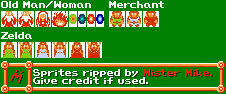
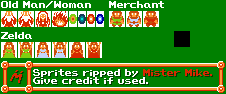
Link pick up sword when intersect bound and attacking

Changed region(s): [[0.7434, 0.3191, 0.8673, 0.5106]]

diff --git a/src/Game/Zelda/Entities/Dynamic/Link.java b/src/Game/Zelda/Entities/Dynamic/Link.java
@@ -32,6 +32,8 @@ public class Link extends BaseMovingEntity {
     boolean linkAttack = false;
     boolean linkHit = false, animacion = false, attacking = false;
     boolean bienveR = false, bienveL = false, bienveU = false, bienveD = false;
+    int powerUp = 2;
+    boolean keyLock = false;
 
 
     public Link(int x, int y, BufferedImage[] sprite, Handler handler) {
@@ -46,6 +48,11 @@ public class Link extends BaseMovingEntity {
 
     @Override
     public void tick() {
+    	
+    	if(powerUp >= 0 && powerUp <= 1) {
+    		handler.getMusicHandler().playEffect("zeldaitem.wav"); // Play Effect when pick up sword
+    	}
+    	
     	// Take 1 health from Link
     	if(handler.getKeyManager().keyJustPressed(KeyEvent.VK_Z) && handler.getZeldaGameState().health > 0) {
     		handler.getZeldaGameState().health--;
@@ -132,20 +139,27 @@ public class Link extends BaseMovingEntity {
              		bienveD = true;
              		animacion = false;
              		attacking = false;
+             		speed = 4;
              	}
              }
+             if(handler.getZeldaGameState().gotSword && handler.getZeldaGameState().swordTimer >= 0 && handler.getZeldaGameState().swordTimer <= 119) {
+                 sprite = Images.oldMan[4];  // Link pick up sword
+                 powerUp--; // timer for music to sound 1 time
+                 keyLock = true;  //Locking keys
+             }else{
+            	 keyLock = false;
+             }
              
-             if(handler.getKeyManager().keyJustPressed(KeyEvent.VK_ENTER)) {
-             
-             	int hola = 120;
+             if(handler.getKeyManager().keyJustPressed(KeyEvent.VK_ENTER) && handler.getZeldaGameState().gotSword) {
+            	speed = 0; // While attacking Link can't move
+             	int animationSpeed = 120; //Link Attack animation Speed
              	  	
-             	
                       if (direction.equals(UP)) {
                           BufferedImage[] animList = new BufferedImage[3];
                           animList[0] = Images.zeldaLinkAttacks[9];
                           animList[1] = Images.zeldaLinkAttacks[10];
                           animList[2] = Images.zeldaLinkAttacks[11];
-                          animation = new Animation(hola, animList);
+                          animation = new Animation(animationSpeed, animList);
                           direction = UP;
                           sprite = sprites[4];
                           
@@ -156,7 +170,7 @@ public class Link extends BaseMovingEntity {
                           animList[0] = Images.zeldaLinkAttacks[0];
                           animList[1] = Images.zeldaLinkAttacks[1];
                           animList[2] = Images.zeldaLinkAttacks[2];
-                          animation = new Animation(hola, animList);
+                          animation = new Animation(animationSpeed, animList);
                           direction = DOWN;
                           sprite = sprites[0];
                           
@@ -167,7 +181,7 @@ public class Link extends BaseMovingEntity {
                           animList[0] = Images.zeldaLinkAttacks[6];
                           animList[1] = Images.zeldaLinkAttacks[7];
                           animList[2] = Images.zeldaLinkAttacks[8];
-                          animation = new Animation(hola, animList);
+                          animation = new Animation(animationSpeed, animList);
                           direction = Direction.LEFT;
                           sprite = Images.flipHorizontal(sprites[3]);
                           
@@ -178,17 +192,17 @@ public class Link extends BaseMovingEntity {
                           animList[0] = Images.zeldaLinkAttacks[3];
                           animList[1] = Images.zeldaLinkAttacks[4];
                           animList[2] = Images.zeldaLinkAttacks[5];
-                          animation = new Animation(hola, animList);
+                          animation = new Animation(animationSpeed, animList);
                           direction = Direction.RIGHT;
                           sprite = (sprites[3]);
                           
                       }
-                      animacion = true;
-                      attacking = true;
+                      animacion = true; //Changing all booleans
+                      attacking = true; // Making Link attack 
              	 
              }
             
-        	
+        	if(!keyLock) {
             if (handler.getKeyManager().up) {
                 if (direction != UP || bienveU) {
                 	bienveU = false;
@@ -238,8 +252,10 @@ public class Link extends BaseMovingEntity {
                 }
                 animation.tick();
                 move(direction);
+            }
             } else {
                 moving = false;
+                
             }
         }
         if ((handler.getKeyManager().keyJustPressed(KeyEvent.VK_H)) && handler.getZeldaGameState().health < 4) {

diff --git a/src/Game/GameStates/Zelda/ZeldaGameState.java b/src/Game/GameStates/Zelda/ZeldaGameState.java
@@ -27,7 +27,7 @@ public class ZeldaGameState extends State {
     public int health = 4; //Links' health 
     //map is 16 by 7 squares, you start at x=7,y=7 starts counting at 0
     public int mapX,mapY,mapWidth,mapHeight;
-
+    public int swordTimer = 120;
     public ArrayList<ArrayList<ArrayList<SolidStaticEntities>>> objects;
     public ArrayList<ArrayList<ArrayList<BaseMovingEntity>>> enemies;
     public Link link;
@@ -43,7 +43,7 @@ public class ZeldaGameState extends State {
         yOffset = handler.getHeight()/4;
         stageWidth = handler.getWidth()/3 + (handler.getWidth()/15);
         stageHeight = handler.getHeight()/2;
-        worldScale = 2;
+        worldScale = 3;
         mapX = 7;
         mapY = 7;
         mapWidth = 256;
@@ -70,24 +70,24 @@ public class ZeldaGameState extends State {
 
     }
 
-
+    
     
     @Override
     public void tick() {
+    	if(gotSword) {
+    		swordTimer --;
+    	}
     	if(caveTimer == 0) {
     		System.out.println("True");
     	}
-    	
         link.tick();
         if (inCave){
         	caveTimer --;     
-        	ArrayList<SolidStaticEntities> toREmove = new ArrayList<>();
         	for (SolidStaticEntities entity : sword) {
         	if (entity instanceof Sword) {
              	if(entity.bounds.intersects(link.bounds)) {
-        		System.out.println(gotSword);
         		gotSword = true;
-        		toREmove.add(entity);
+        		
              } } }
         	 for (SolidStaticEntities entity : objects.get(mapX).get(mapY)) {
                  entity.tick();
@@ -110,11 +110,14 @@ public class ZeldaGameState extends State {
 
     @Override
     public void render(Graphics g) {
-    	 if (inCave){
+    	 if (inCave){    		 
             for (SolidStaticEntities entity : caveObjects) {
                 entity.render(g);
             } for (Sword entity : sword) {
                 entity.render(g);
+                if(gotSword) {
+        			g.drawImage(Images.oldMan[3], 814, 550, 25, 55, null);
+        		 }
             }
 
             g.setColor(Color.WHITE);
@@ -149,7 +152,10 @@ public class ZeldaGameState extends State {
             for (int j = 0;j < 11;j++) {
             	
             	caveObjects.add(new SolidStaticEntities(7, 4, Images.oldMan[0], handler)); //Add old man
-            	this.sword.add(new Sword(7,6, Images.oldMan[2], handler)); //Add sword }
+            	this.sword.add(new Sword(7,6, Images.oldMan[2], handler)); //Add sword 
+            	if(gotSword) {
+            		this.sword.add(new Sword(7,6, Images.oldMan[3], handler));
+            	}
             	if ((i == 4 && j==4 ) || (i == 10 && j==4 )){ // i and j for fire
             		caveObjects.add(new SolidStaticEntities(i, j, Images.oldMan[1], handler)); //Add fire
             		

diff --git a/src/Resources/Images.java b/src/Resources/Images.java
@@ -123,7 +123,7 @@ public class Images {
 
         bouncyEnemyFrames = new BufferedImage[2];
         
-        oldMan = new BufferedImage[3]; 
+        oldMan = new BufferedImage[5]; 
 
 
 
@@ -237,6 +237,8 @@ public class Images {
             oldMan[0] = man_fire.crop(1, 11, 16, 16); //Old Man for cave
             oldMan[1] = man_fire.crop(52, 11, 16, 16); //Fire for cave
             oldMan[2] = zeldaLinkSpriteSheet.crop(36, 154, 8, 16); //Sword item
+            oldMan[3] = man_fire.crop(174, 31, 16, 16);
+            oldMan[4] = zeldaLinkSpriteSheet.crop(230, 11, 16, 16);
             
             linkHearts = ImageIO.read(getClass().getResourceAsStream("/UI/Backgrounds/Zelda/menu.png")); //Menu Image
             menu = new SpriteSheet(linkHearts); // Images for link hearts

diff --git a/src/Game/Zelda/Entities/Statics/Sword.java b/src/Game/Zelda/Entities/Statics/Sword.java
@@ -7,6 +7,6 @@ import Resources.Images;
 
 public class Sword extends SolidStaticEntities{
     public Sword(int x, int y, BufferedImage sprite, Handler handler) {
-        super(x, y, Images.oldMan[2], handler);
+        super(x, y, sprite, handler);
     }
 }
